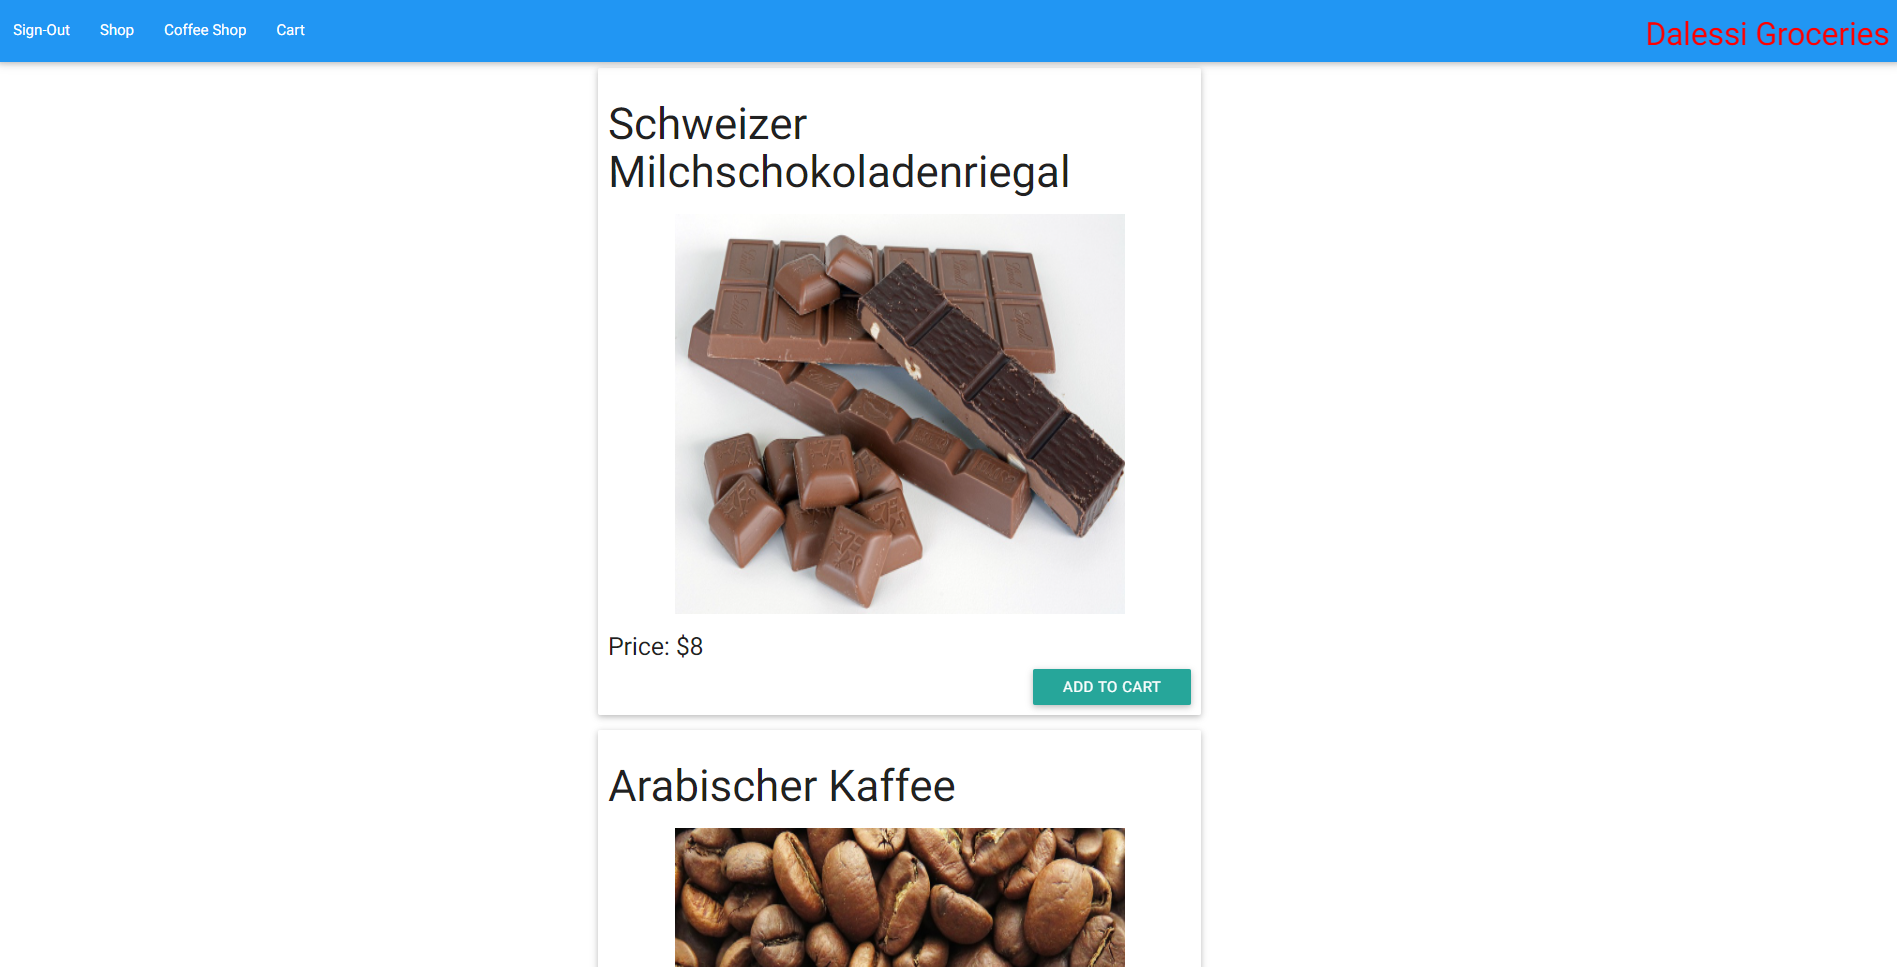
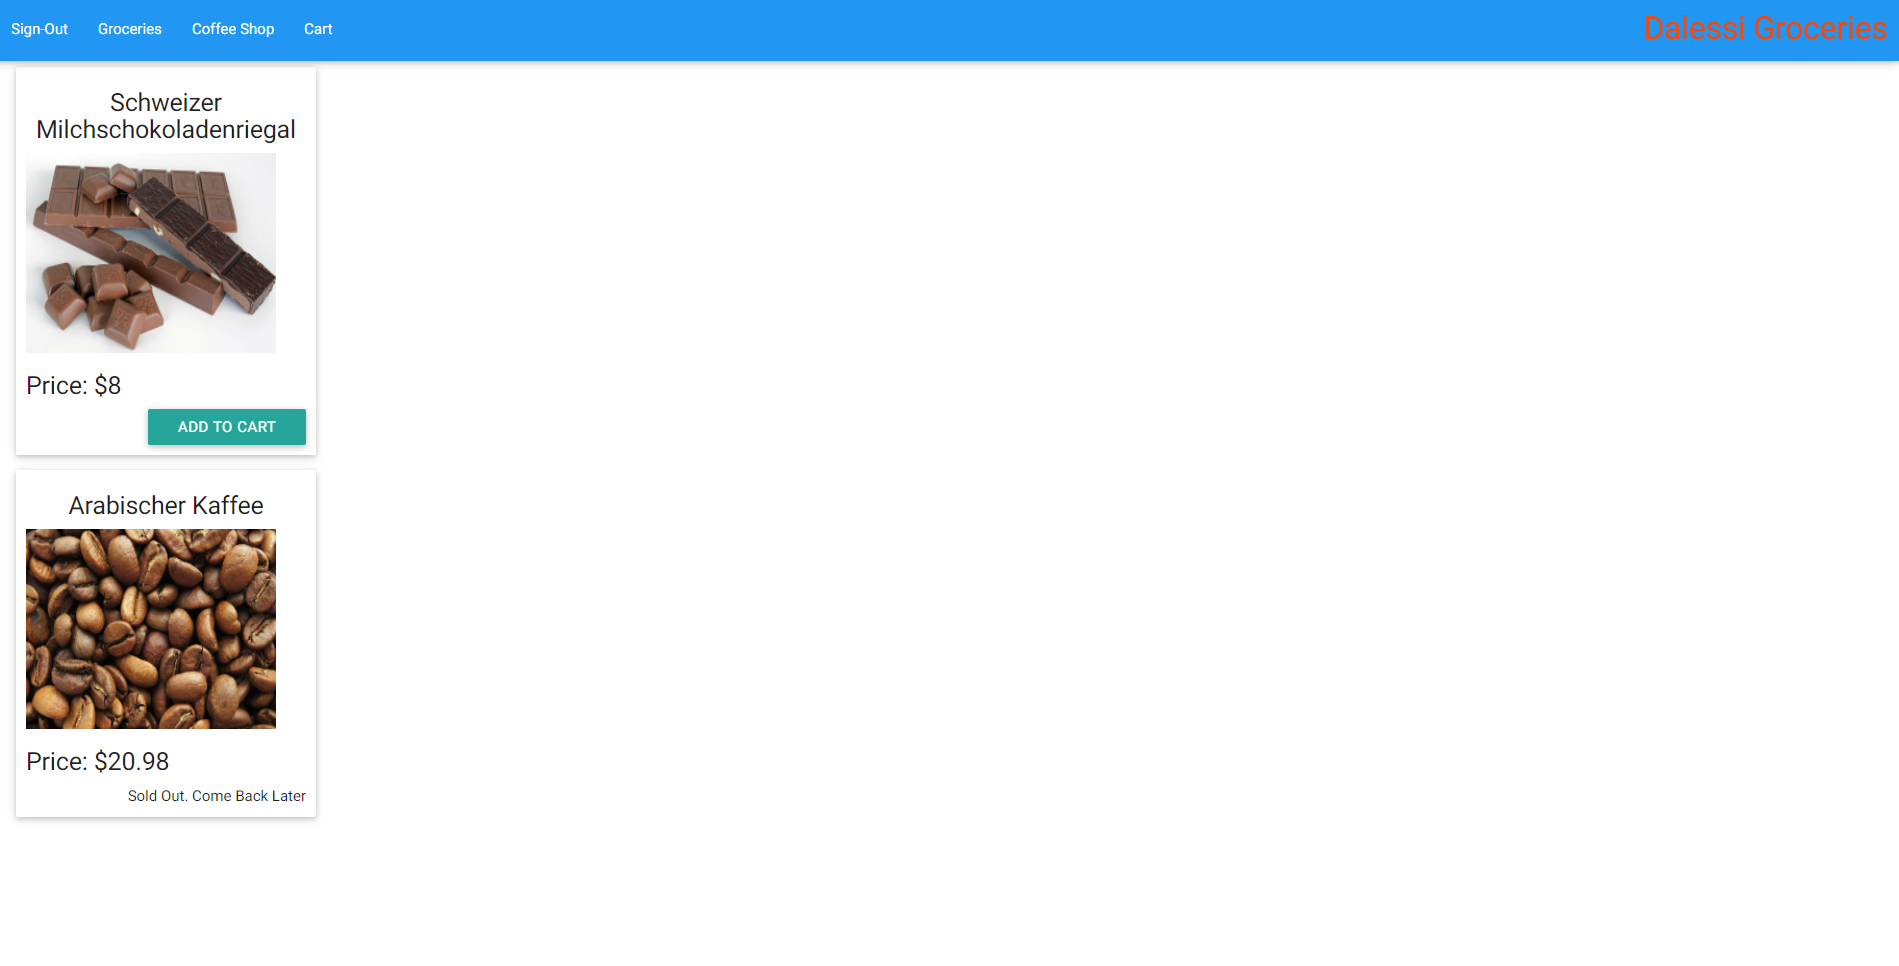
changes to shopping cart
The user can now remove items from the shopping cart.  This rests the amount of inventory on the store pages.

diff --git a/groceryStore/routes/storeRoutes.js b/groceryStore/routes/storeRoutes.js
@@ -1,5 +1,6 @@
 const mongoose = require('mongoose');
 const Inventory = mongoose.model('inventory');
+const Coffee = mongoose.model('coffee');
 const Cart = mongoose.model('cart');
 
 module.exports = (app) => {
@@ -9,9 +10,28 @@ module.exports = (app) => {
     });
 
     app.post('/store/cart', async (req, res) => {
-        let cart = await Cart.findOneAndUpdate({ email: req.user.email }, {$push: { items: {_id: req.body._id, productName: req.body.productName, productPrice: req.body.productPrice, quantity: req.body.quantity, id: req.body.id, imageURL: req.body.imageURL } }}).exec();
+        // A unique id is added.
+        let cart = await Cart.findOneAndUpdate({ email: req.user.email }, {$push: { items: { _id: Math.random().toString(), productName: req.body.productName, productPrice: req.body.productPrice, quantity: req.body.quantity, id: req.body.id, imageURL: req.body.imageURL } }}).exec();
+        cart.save();
+        console.log(req);
+        let newCart = await Cart.findOne({ email: req.user.email }).exec();
+
+        
+        await Inventory.findOneAndUpdate({_id: req.body._id}, {$inc: {quantity: -1}}).exec();
+        await Coffee.findOneAndUpdate({_id: req.body._id}, {$inc: {quantity: -1}}).exec();
+        
+        res.send(newCart);
+    });
+
+    app.patch('/store/cart', async (req, res) => {
+        let cart = await Cart.findOneAndUpdate({ email: req.user.email }, {$pull: { items: {_id: req.body._id, productName: req.body.productName, productPrice: req.body.productPrice, quantity: req.body.quantity, id: req.body.id, imageURL: req.body.imageURL } }}).exec();
         cart.save();
         let newCart = await Cart.findOne({ email: req.user.email }).exec();
+
+        
+        await Inventory.findOneAndUpdate({id: req.body.id}, {$inc: {quantity: 1}}).exec();
+        await Coffee.findOneAndUpdate({id: req.body.id}, {$inc: {quantity: 1}}).exec();
+        
         res.send(newCart);
     });
 

diff --git a/homepage/client/src/components/Footer.js b/homepage/client/src/components/Footer.js
@@ -1,4 +1,5 @@
 import React from 'react';
+import { Link } from 'react-router-dom';
 
 class Footer extends React.Component {
     render() {
@@ -12,15 +13,14 @@ class Footer extends React.Component {
                     <div className = "col">
                         <h5 className = "green-text" style = {{ fontFamily: 'monospace', fontSize: 'xxx-large', color: 'midnightblue'}}><b>Links</b></h5>
                         <ul>
-                            <li><a href="/" style = {{ fontFamily: 'sans-serif', fontSize: 'x-large', color: 'midnightblue'}}>Home</a></li>
-                            <li><a href="/websites" style = {{ fontFamily: 'serif', fontSize: 'x-large', color: 'chartreuse'}}>Websites</a></li>
-                            <li><a href="/message" style = {{ fontFamily: 'serif', fontSize: 'x-large', color: 'AppWorkspace'}}>Contact Us</a></li>
+                            <li><Link to="/" style = {{ fontFamily: 'sans-serif', fontSize: 'x-large', color: 'midnightblue'}}>Home</Link></li>
+                            <li><Link to="/websites" style = {{ fontFamily: 'serif', fontSize: 'x-large', color: 'chartreuse'}}>Websites</Link></li>
+                            <li><Link to="/message" style = {{ fontFamily: 'serif', fontSize: 'x-large', color: 'AppWorkspace'}}>Contact Us</Link></li>
                         </ul>
                     </div>
                 </div>
                 <div className = "footer-copyright">
                     © 2021 Copyright OC Websites
-                   
                 </div>
             </footer>
         )

diff --git a/groceryStore/client/src/components/ShoppingCart.js b/groceryStore/client/src/components/ShoppingCart.js
@@ -8,7 +8,7 @@ import Payments from './Payments';
 class ShoppingCart extends React.Component {
 
     componentDidMount() {
-        this.props.getCart();
+        
         window.scrollTo(0,0);
     }
 
@@ -25,6 +25,7 @@ class ShoppingCart extends React.Component {
                        <h5><center>{item.productName}</center></h5>
                        <center><img src = {item.imageURL} style={{ height: '200px', width: '250px' }} /></center>
                        <h5>Price: ${item.productPrice}</h5>
+                       <a href = "/checkout" onClick = {() => this.props.removeFromCart(item)} className='btn' style={{ position: 'static'}}>Remove From Cart</a>
                     </div>
                 )
             })
@@ -33,7 +34,7 @@ class ShoppingCart extends React.Component {
     }
     render() {
         return(
-            <div style = {{ marginTop: '70px', minHeight: '100vh'}}>
+            <div style = {{ marginTop: '70px', minHeight: '100vh', position: 'static'}}>
                 {this.renderCart()}
                 
                 {this.props.shoppingCart.items.items && this.props.shoppingCart.items.items.length ? <div className='left' style={{ marginLeft: '20px'}}>

diff --git a/groceryStore/client/src/components/actions/index.js b/groceryStore/client/src/components/actions/index.js
@@ -1,5 +1,5 @@
 import axios from 'axios';
-import { SIGN_IN, SIGN_UP, OBTAIN_INVENTORY, CHECKOUT, OBTAIN_COFFEE, CART_DRAFT } from './types';
+import { SIGN_IN, SIGN_UP, OBTAIN_INVENTORY, CHECKOUT, OBTAIN_COFFEE, CART_DRAFT, REMOVE_FROM_CART } from './types';
 
 export const signin = (formProps) => async (dispatch) => {
     const res = await axios.post('/auth/signin', formProps);
@@ -42,6 +42,12 @@ export const addToCartDraft = (item) => async (dispatch) => {
     const res = await axios.post('/store/cart', item);
 
     dispatch({ type: CART_DRAFT, payload: res.data });
+}
+
+export const removeFromCart = (item) => async (dispatch) => {
+    const res = await axios.patch('/store/cart', item);
+
+    dispatch({ type: REMOVE_FROM_CART, payload: res.data });
 }
 
 export const getCart = () => async (dispatch) => {

diff --git a/groceryStore/client/src/components/Shop.js b/groceryStore/client/src/components/Shop.js
@@ -16,7 +16,7 @@ class Shop extends React.Component {
                    <img src = {item.imageURL} style={{ height: '200px', width: '250px' }}/>
                    <h5>Price: ${item.productPrice}</h5>
                    <div className='right'>
-                      {item.quantity > 0 ? <button className='waves-effect wave-light btn' onClick={() => this.props.addToCartDraft(item)}>Add To Cart</button> : 'Sold Out. Come Back Later'}
+                      {item.quantity > 0 ? <button className='btn' onClick={() => this.props.addToCartDraft(item)}>Add To Cart</button> : 'Sold Out. Come Back Later'}
                    </div>
                 </div>
             )

diff --git a/groceryStore/client/src/components/CoffeeShop.js b/groceryStore/client/src/components/CoffeeShop.js
@@ -18,7 +18,7 @@ class Shop extends React.Component {
                     <center><img src = {item.imageURL} style={{ height: '200px', width: '250px'}}/></center>
                     <h5>Price: ${item.productPrice}</h5>
                     <div className='right'>
-                        <button className='waves-effect wave-light btn' onClick={() => this.props.addToCartDraft(item)}>Add To Cart</button>
+                        {item.quantity > 0 ? <a className='btn' onClick={() => this.props.addToCartDraft(item)}>Add To Cart</a> : 'Sold Out. Come Back Later'}
                     </div>
                     </div>
                 )

diff --git a/groceryStore/routes/billingRoutes.js b/groceryStore/routes/billingRoutes.js
@@ -27,11 +27,7 @@ module.exports = app => {
 
         let cart = await Cart.findOneAndUpdate({ email: req.user.email }, {$pullAll: { items: req.body.items }});
 
-        for(item of req.body.items)
-        {
-            await Inventory.findOneAndUpdate({_id: item._id}, {$inc: {quantity: -1}}).exec();
-            await Coffee.findOneAndUpdate({_id: item._id}, {$inc: {quantity: -1}}).exec();
-        }
+        
         cart.save();
         purchase.save();
         res.send(req.user);

diff --git a/groceryStore/client/src/components/actions/types.js b/groceryStore/client/src/components/actions/types.js
@@ -4,3 +4,4 @@ export const OBTAIN_INVENTORY = 'OBTAIN_INVENTORY';
 export const OBTAIN_COFFEE = 'OBTAIN_COFFEE';
 export const CHECKOUT = 'CHECKOUT';
 export const CART_DRAFT = 'CART_DRAFT';
+export const REMOVE_FROM_CART = 'REMOVE_FROM_CART';

diff --git a/groceryStore/models/Inventory.js b/groceryStore/models/Inventory.js
@@ -11,6 +11,8 @@ const inventorySchema = new Schema({
     quantity: Number,
     // Profile Image 
     imageURL: String,
+    // Unique number identifying item
+    id: Number
     
 })
 

diff --git a/groceryStore/models/Coffee.js b/groceryStore/models/Coffee.js
@@ -11,6 +11,8 @@ const coffeeSchema = new Schema({
     quantity: Number,
     // Profile Image 
     imageURL: String,
+    // Unique number identifying item
+    id: Number
     
 })
 
